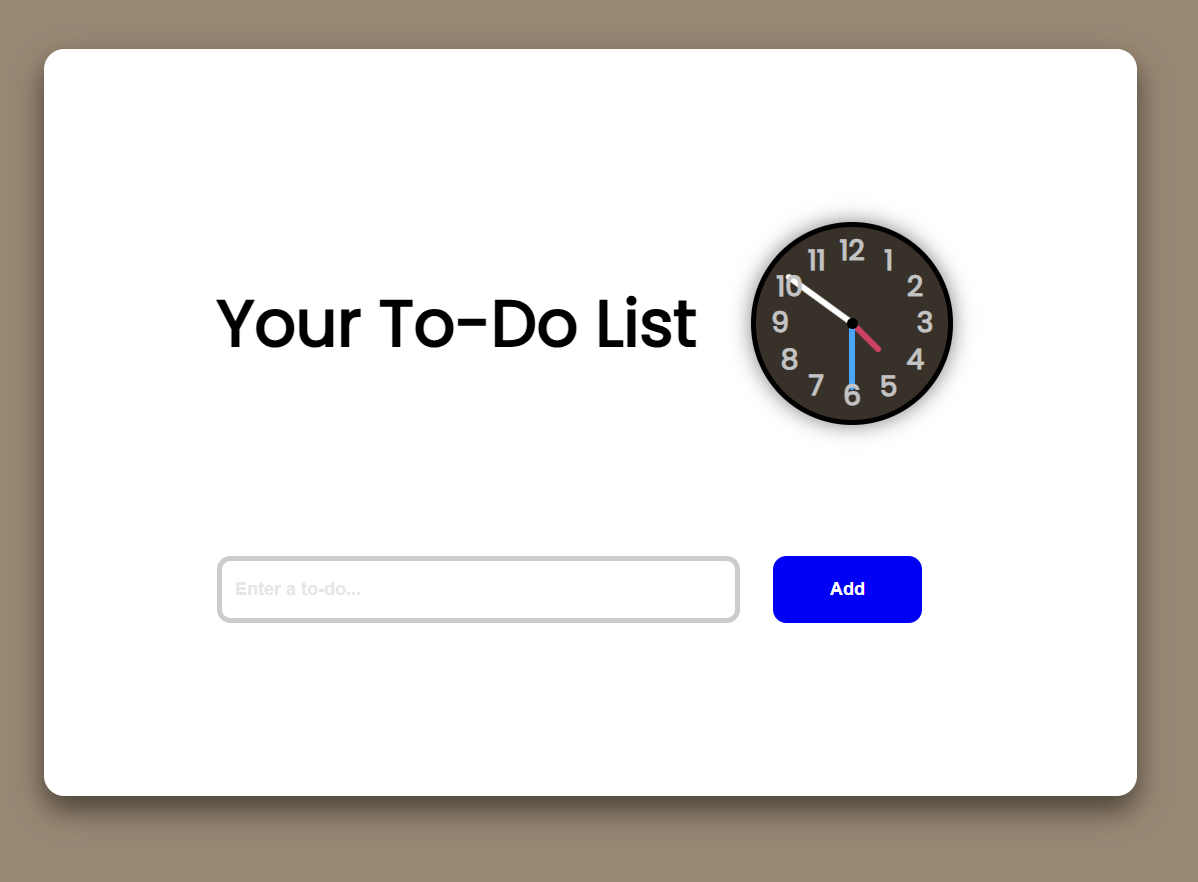
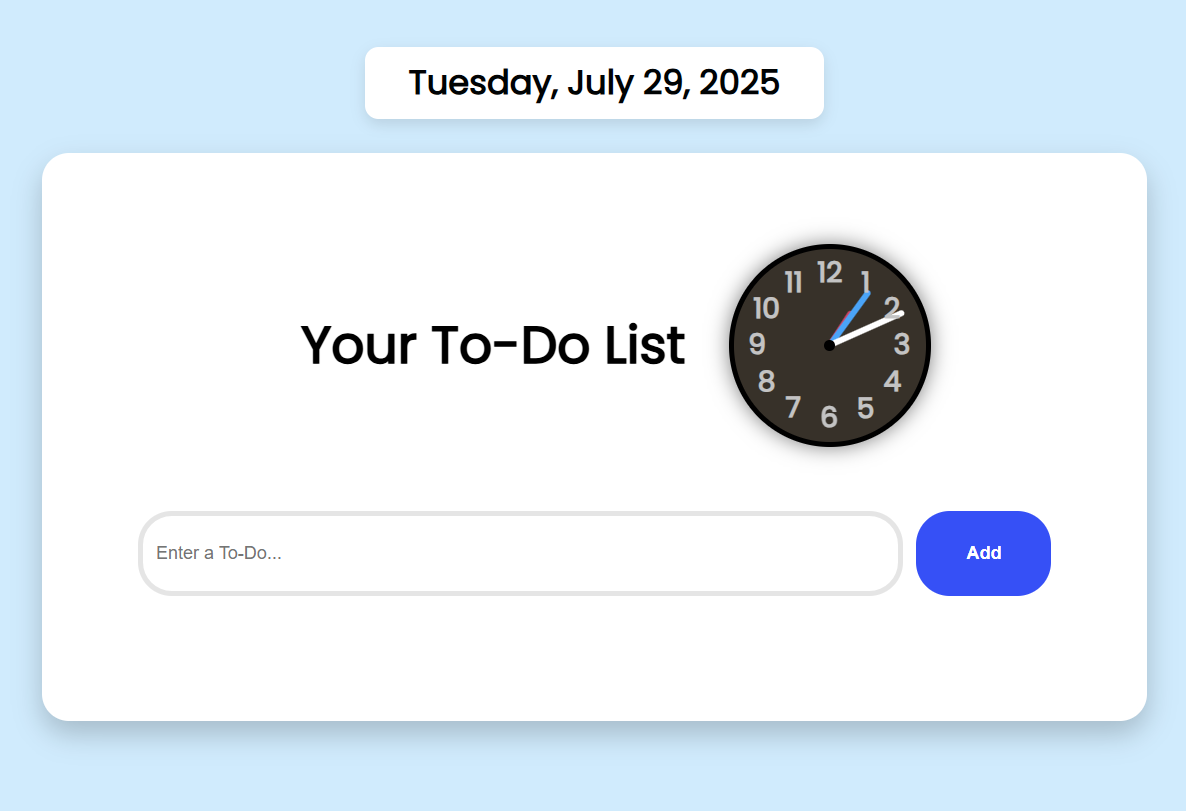
Final iteration

diff --git a/style.css b/style.css
@@ -6,36 +6,56 @@
 
 body {
     font-family: 'Poppins';
-    background: rgb(156, 134, 112);
+    background: rgb(201, 236, 255);
     padding: 4rem;
-}
-
-.main-container {
-    background: white;
-    padding: 8rem;
     justify-content: center;
-    width: 100%;
-    max-width: 810px;
-    margin: auto;
-    border-radius: 15px;
-    box-shadow: 0 10px 20px rgba(0,0,0,0.5);
 }
 
-.main-container:hover {
-    box-shadow: 0 20px 40px rgba(0,0,0,1);
-    transition: 1s ease
-}
-
-.header-and-clock {
-    background: white;
+.date-container {
     display: flex;
-    align-items: center;
+    justify-content: center;
+    margin: auto;
+    margin-bottom: 25px;
+    max-width: 350px;
 }
 
-#header {
+#date {
+  font-size: 25px;
+  font-weight: bolder;
+  text-align: center;
+  background: white;
+  padding: 0.5rem 2rem;
+  border-radius: 10px;
+  box-shadow: 0 4px 10px rgba(0,0,0,0.1);
+}
+
+#date:hover {
+    color: rgb(0, 166, 255);
+    transition: 1.5s ease;
+}
+
+.main {
+    background: white;
+    width: 100%;
+    max-width: 850px;
+    margin: auto;
+    border-radius: 20px;
+    border: 4px solid white;
+    padding: 4rem;
+    box-shadow: 0 10px 20px rgba(0,0,0,0.2)
+}
+
+.title-and-clock-container {
+    display: flex;
+    justify-content: center;
+    align-items: center;
+    margin-bottom: 3rem;
+}
+
+#title {
     background: rgb(255, 255, 255);
-    font-size: 1.5rem;
-    margin-right: 40px;
+    font-size: larger;
+    padding: 2rem;
 }
 
 #clock {
@@ -91,94 +111,78 @@ body {
     border-radius: 20px;
 }
 
-.list-and-input {
+.input-box {
     background: rgb(255, 255, 255);
-    color: white;
+    display: flex;
+    justify-content: center;
+    margin-bottom: 25px;
 }
 
-.list-and-input p {
-    font-size: 25px;
-    font-weight: bolder;
-    margin-top: 30px;
-    margin-bottom: 30px;
-    text-align: center;
+#input {
+    padding: 20px 10px;
+    width: 567px;
+    border-radius: 25px;
+    border: 4px solid rgba(0,0,0,.1);
 }
 
-.list-and-input:hover {
-    color: lightgrey;
-    transition: 5s ease;
+#input:hover {
+    border: 4px solid rgba(0,0,0,.4);
+    transition: 0.3s ease;
 }
 
-.input-area {
-    background: rgb(255, 255, 255);
-}
-
-#task-input {
-    width: 70%;
-    height: 50px;
-    margin-right: 20px;
-    border-radius: 10px;
-    padding-left: 10px;
-    padding-right: 10px;
-    border: 4px solid rgba(0,0,0,0.2);
-}
-
-#task-input::placeholder {
-    font-weight: bold;
-    color: rgb(230, 230, 230);
-}
-
-#task-input:hover::placeholder {
-    background: rgb(232, 232, 232);
+#input:hover::placeholder {
+    background: rgb(241, 241, 241);
     color: rgb(0, 0, 0);
-    transition: 1s ease;
+    transition: 4s ease;
 }
 
-#add-task {
-    width: 20%;
-    height: 50px;
-    border-radius: 10px;
-    background: blue;
+#add-button {
+    padding: 20px 10px;
+    width: 100px;
+    margin-left: 10px;
+    border-radius: 25px;
+    border: 4px solid rgb(46, 81, 255);
+    background: rgb(46, 81, 255);
     color: white;
     font-weight: bolder;
-    border: 4px solid blue
 }
 
-#add-task:hover {
-    transform: scale(1.15);
+#add-button:hover {
+    background: white;
     color: blue;
-    background:white;
-    border: solid 4px blue;
-    transition: 0.5s ease;
+    transform: scale(1.1);
+    transition: 0.3s ease;
 }
 
 ul {
-    align-items: center;
+    background: rgb(245, 245, 245);
 }
 
 li {
-    margin-top: 25px;
-    position: relative;
     display: flex;
+    position: relative;
     justify-content: space-between;
-    padding-right: 70px;
+    align-items: center;
+    padding: 8px;
+    padding-right: 20px;
+    border: 1px solid rgba(0,0,0,.1);
 }
 
 li::before {
-    content: "☺";
+    content: "◆";
     position: absolute;
     left: -25px;
 }
 
 li delete-button {
-    background: rgb(255, 33, 33);
+    background: rgb(255, 0, 0);
     width: 35px;
     height: 35px;
     border-radius: 50%;
     cursor: pointer;
     color: white;
     font-weight: bold;
-    border: 4px solid red;
+    border: 4px solid rgb(255, 255, 255);
     
     display: flex;
     justify-content: center;
@@ -188,6 +192,7 @@ li delete-button {
 li delete-button:hover {
     transform: scale(1.15);
     background: white;
+    border: 4px solid red;
     color: red;
     transition: 0.3s ease;
 }
@@ -195,4 +200,16 @@ li delete-button:hover {
 li.completed span {
     text-decoration: line-through;
     color: gray;
+}
+
+#secret-message {
+    color: rgb(201, 236, 255);
+    margin-top: 75px;
+    display: flex;
+    justify-content: center;
+}
+
+.main:hover + #secret-message {
+    color: rgb(142, 179, 199);
+    transition: 0.3s ease;
 }

diff --git a/script.js b/script.js
@@ -1,18 +1,49 @@
-//Task List variables
-const addButton = document.getElementById("add-task");
-const taskInput = document.getElementById("task-input");
-const taskList = document.getElementById("task-list");
+// Date Funcitonality
+const date = document.getElementById("date");
+const options = {
+    weekday: 'long',
+    year: 'numeric',
+    month: 'long',
+    day: 'numeric'
+};
 
-addButton.addEventListener("click", addTask);
+const today = new Date().toLocaleDateString(undefined, options);
+date.textContent = today;
 
 
-//Clock variables
+
+// Clock Funcionality
 const hr = document.getElementById("hours");
 const min = document.getElementById("mins");
 const sec = document.getElementById("sec");
 
+function displayTime() {
+    let date = new Date;
 
-//Task List fucntion
+    let hh = date.getHours();
+    let mm = date.getMinutes();
+    let ss = date.getSeconds();
+
+    let hRotate = 30 * hh + mm / 2;
+    let mRotate = 6 * mm;
+    let sRotate = 6 * ss;
+
+    hr.style.transform = `rotate(${hRotate}deg)`;
+    min.style.transform = `rotate(${mRotate}deg)`;
+    sec.style.transform = `rotate(${sRotate}deg)`;
+}
+
+setInterval(displayTime, 1000);
+
+
+
+// List and Input Fucntionality
+const addButton = document.getElementById("add-button");
+const taskInput = document.getElementById("input");
+const taskList = document.getElementById("task-list");
+
+addButton.addEventListener("click", addTask);
+
 function addTask() {
     const taskText = taskInput.value.trim();
     if(taskText === "") return;
@@ -38,22 +69,3 @@ function addTask() {
 
     taskInput.value = "";
 }
-
-//Clock fucntion
-function displayTime() {
-    let date = new Date;
-
-    let hh = date.getHours();
-    let mm = date.getMinutes();
-    let ss = date.getSeconds();
-
-    let hRotate = 30 * hh + mm / 2;
-    let mRotate = 6 * mm;
-    let sRotate = 6 * ss;
-
-    hr.style.transform = `rotate(${hRotate}deg)`;
-    min.style.transform = `rotate(${mRotate}deg)`;
-    sec.style.transform = `rotate(${sRotate}deg)`;
-}
-
-setInterval(displayTime, 1000);

diff --git a/index.html b/index.html
@@ -2,16 +2,19 @@
 <html lang="en">
     <head>
         <meta charset="UTF-8" />
-        <meta name="viewport" content="width=device-width, initial-scale=0" />
+        <meta name="viewport" content="width=device-width, initial-width=1.0" />
         <link rel='stylesheet' href='https://fonts.googleapis.com/css?family=Poppins'>
         <link rel="stylesheet" href="style.css" />
         <link rel="icon" href="checkmark.png" />
         <title>To-Do List</title>
     </head>
     <body>
-        <div class="main-container">
-            <div class="header-and-clock">
-                <div id="header">
+        <div class="date-container">
+            <div id="date"></div>
+        </div>
+        <div class="main">
+            <div class="title-and-clock-container">
+                <div id="title">
                     <h1>Your To-Do List</h1>
                 </div>
                 <div id="clock">
@@ -33,18 +36,15 @@
                     <span style="--i: 12"><b>12</b></span>
                 </div>
             </div>
-            <div class="list-and-input">
-                <p>What are you up to today..?</p>
-                <div class="input-area">
-                    <input id="task-input" type="text" placeholder="Enter a to-do..." />
-                    <button id="add-task">Add</button>
-                </div>
-            </div> 
+            <div class="input-box">
+                <input id="input" type="text" placeholder="Enter a To-Do..." />
+                <button id="add-button">Add</button>
+            </div>
             <ul id="task-list"></ul>
+        </div>
+        <div id="secret-message">
+            <h1>What are you up to today ...</h1>
         </div>
     </body>
     <script src="script.js"></script>
 </html>
-
-
-            

diff --git a/README.md b/README.md
@@ -1,12 +1,17 @@
-# Simple To-Do Web Application
-This is a simple to-do application to demonstrate the use of the following:
+# Simple To-Do List Web Application
+
+### This is a simple to-do application to demonstrate the my skills in the following languages: 
+
 - Java Script
 - HTML
-- CSS
+- CSS 
 
 
 ![Screenshot](screenshot-1.png)
+
 ![Screenshot](screenshot-2.png)
+
 ![Screenshot](screenshot-3.png)
+
 ![Screenshot](screenshot-4.png)
 
